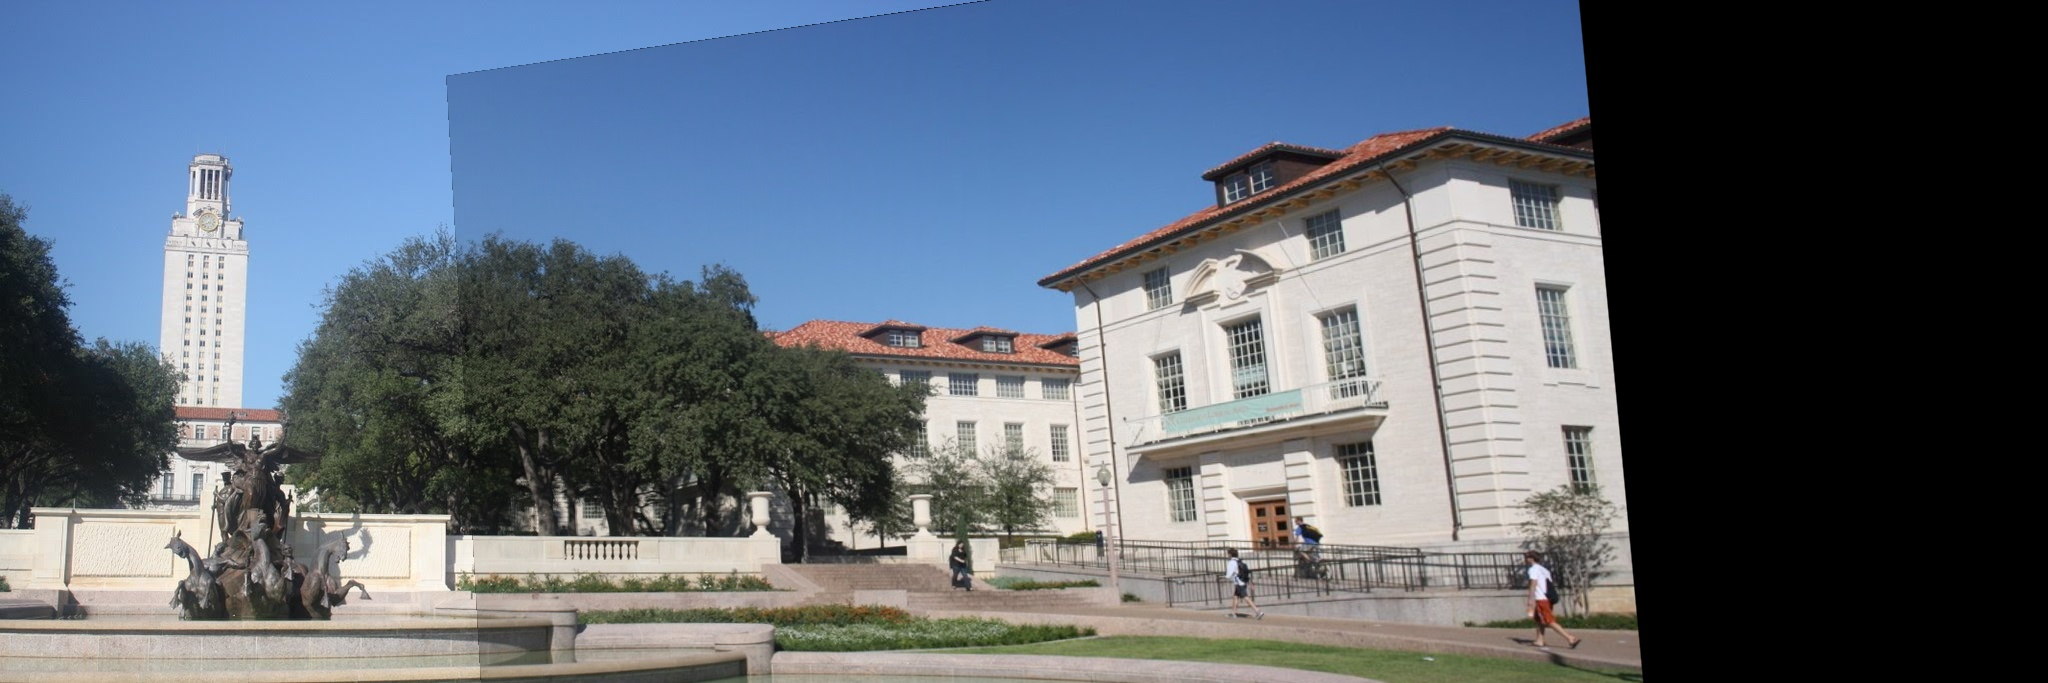
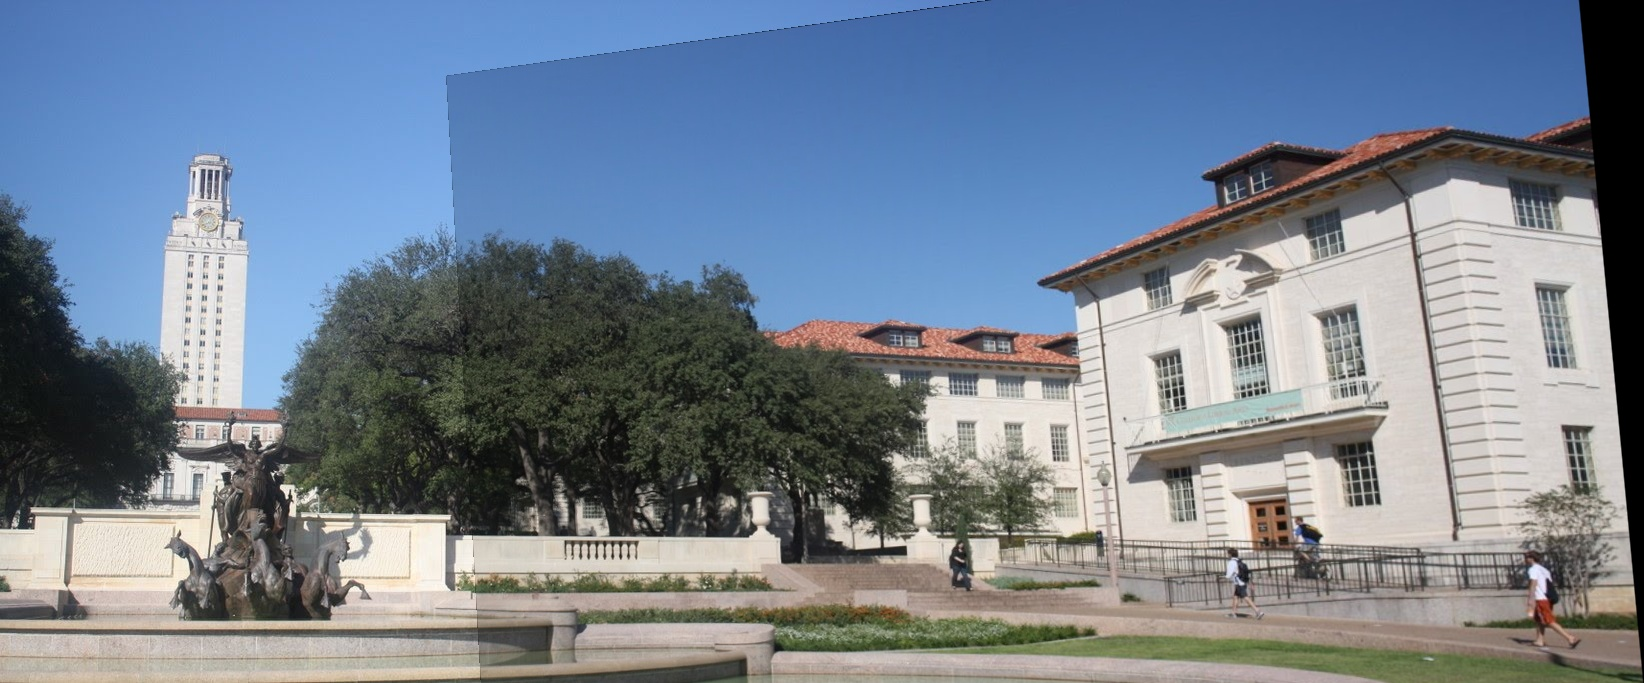
1

diff --git a/image_stitch.py b/image_stitch.py
@@ -1,53 +1,48 @@
 '''
 Author: Wang Taorui
 Date: 2023-10-20 14:50:22
-LastEditTime: 2023-10-20 16:08:59
+LastEditTime: 2023-10-25 14:38:10
 LastEditors: Wang Taorui
 Description: 
 FilePath: /assignment2/image_stitch.py
 '''
+import cv2
 import numpy as np
-from scipy.signal import convolve2d
-import matplotlib.pyplot as plt
 
-def harris_corner_detector(image, threshold=0.01):
-    # 计算图像的梯度
-    dx = np.array([[-1, 0, 1], [-1, 0, 1], [-1, 0, 1]])
-    dy = dx.T
+# Load two images to be stitched
+image1 = cv2.imread('image_pairs/image pairs_04_01.jpg')
+image2 = cv2.imread('image_pairs/image pairs_04_02.jpg')
 
-    Ix = convolve2d(image, dx, mode='same')
-    Iy = convolve2d(image, dy, mode='same')
+# Detect keypoints and compute descriptors
+detector = cv2.SIFT_create()
+keypoints1, descriptors1 = detector.detectAndCompute(image1, None)
+keypoints2, descriptors2 = detector.detectAndCompute(image2, None)
 
-    # 计算 Harris 角点响应函数 R
-    Ix2 = Ix * Ix
-    Iy2 = Iy * Iy
-    Ixy = Ix * Iy
+# Match keypoints using a descriptor matcher (e.g., FLANN or BFMatcher)
+matcher = cv2.BFMatcher()
+matches = matcher.knnMatch(descriptors1, descriptors2, k=2)
 
-    kernel = np.ones((3, 3))
-    Sxx = convolve2d(Ix2, kernel, mode='same')
-    Syy = convolve2d(Iy2, kernel, mode='same')
-    Sxy = convolve2d(Ixy, kernel, mode='same')
+# Apply Lowe's ratio test to filter good matches
+good_matches = []
+for m, n in matches:
+    if m.distance < 0.75 * n.distance:
+        good_matches.append(m)
 
-    det_M = Sxx * Syy - Sxy * Sxy
-    trace_M = Sxx + Syy
-    R = det_M - 0.04 * (trace_M ** 2)
+# Get corresponding points in both images
+src_pts = np.float32([keypoints1[m.queryIdx].pt for m in good_matches]).reshape(-1, 1, 2)
+dst_pts = np.float32([keypoints2[m.trainIdx].pt for m in good_matches]).reshape(-1, 1, 2)
 
-    # 根据阈值找到角点
-    corners = (R > threshold * R.max()).nonzero()
+# Find the Homography matrix using RANSAC
+H, mask = cv2.findHomography(src_pts, dst_pts, cv2.RANSAC, 5.0)
 
-    return corners
+# Warp the second image to align with the first
+result = cv2.warpPerspective(image2, H, (image1.shape[1] + image2.shape[1], image2.shape[0]))
 
-# 读取图像
-image = plt.imread('image_pairs/image pairs_01_01.jpg')
-image = np.mean(image, axis=2)  # 转换为灰度图
+# Copy the first image to the result
+result[0:image1.shape[0], 0:image1.shape[1]] = image1
 
-# 使用 Harris 角点检测
-corners = harris_corner_detector(image)
-
-# 在图像上标记角点
-image_with_corners = image.copy()
-image_with_corners[corners] = 255  # 将角点设置为白色
-
-# 显示图像和标记的角点
-plt.imshow(image_with_corners, cmap='gray')
-plt.show()
+# Save or display the stitched image
+cv2.imwrite('panorama.jpg', result)
+cv2.imshow('Stitched Image', result)
+cv2.waitKey(0)
+cv2.destroyAllWindows()

diff --git a/get_homography.py b/get_homography.py
@@ -1,7 +1,7 @@
 '''
 Author: Wang Taorui
 Date: 2023-10-23 19:39:36
-LastEditTime: 2023-10-24 19:16:18
+LastEditTime: 2023-10-25 14:52:40
 LastEditors: Wang Taorui
 Description: 
 FilePath: /assignment2/get_homography.py
@@ -10,9 +10,9 @@ from cv2implment import get_pointset
 import cv2 as cv
 import numpy as np
 import matplotlib.pyplot as plt
-p=3
-img1 = cv.imread('image_pairs/image pairs_0%d_01.jpg'%p)
-img2 = cv.imread('image_pairs/image pairs_0%d_02.jpg'%p)
+p=1
+img1 = cv.imread('image_pairs/image pairs_01_01.jpg')
+img2 = cv.imread('image_pairs/image pairs_01_02.jpg')
 
 pointset,keypoint1,keypoint2 = get_pointset(img1, img2)
 # RANSAC算法计算单应性矩阵
@@ -71,12 +71,13 @@ for y in range(img2.shape[0]):
             # Copy the pixel value from img2 to the output image
             output_image[output_y, output_x] = img2[y, x]
 
-warpimg = cv.warpPerspective(img2, np.linalg.inv(M), (img1.shape[1] + img2.shape[1], img2.shape[0]))
+warpimg = cv.warpPerspective(img2, np.linalg.inv(M), (output_width,output_height))
 
 # warpimg = output_image.copy()
 
 rows, cols = img1.shape[:2]
-
+print(rows, cols)
+print(warpimg.shape)
 left = 0
 right = cols
 
@@ -108,9 +109,19 @@ for row in range(0, rows):
             res[row, col] = np.clip(img1[row, col] * (1 - alpha) + warpimg[row, col] * alpha, 0, 255)
 
 
+# 裁剪拼接后的图像以删除黑色边界
+def crop_black_borders(image):
+    gray = cv.cvtColor(image, cv.COLOR_BGR2GRAY)
+    _, thresh = cv.threshold(gray, 1, 255, cv.THRESH_BINARY)
+    contours, hierarchy = cv.findContours(thresh, cv.RETR_EXTERNAL, cv.CHAIN_APPROX_SIMPLE)
+    x, y, w, h = cv.boundingRect(contours[0])
+    cropped_image = image[y:y + h, x:x + w]
+    return cropped_image
+
 warpimg[0:img1.shape[0], 0:img1.shape[1]] = res
 # img3 = cv.cvtColor(direct, cv.COLOR_BGR2RGB)
 # plt.imshow(img3), plt.show()
+warpimg = crop_black_borders(warpimg)
 img4 = cv.cvtColor(warpimg, cv.COLOR_BGR2RGB)
 # plt.imshow(img4), plt.show()
 cv.imwrite('image_pairs/'+'image pairs_0%d.jpg'%p,warpimg)

diff --git a/cv2implment.py b/cv2implment.py
@@ -3,7 +3,7 @@ import cv2 as cv
 import numpy as np
 import matplotlib.pyplot as plt
 MIN = 10
-pair = 1
+pair = 4
 img1 = cv.imread('image_pairs/image pairs_0%d_01.jpg'%pair)
 img2 = cv.imread('image_pairs/image pairs_0%d_02.jpg'%pair)
 
